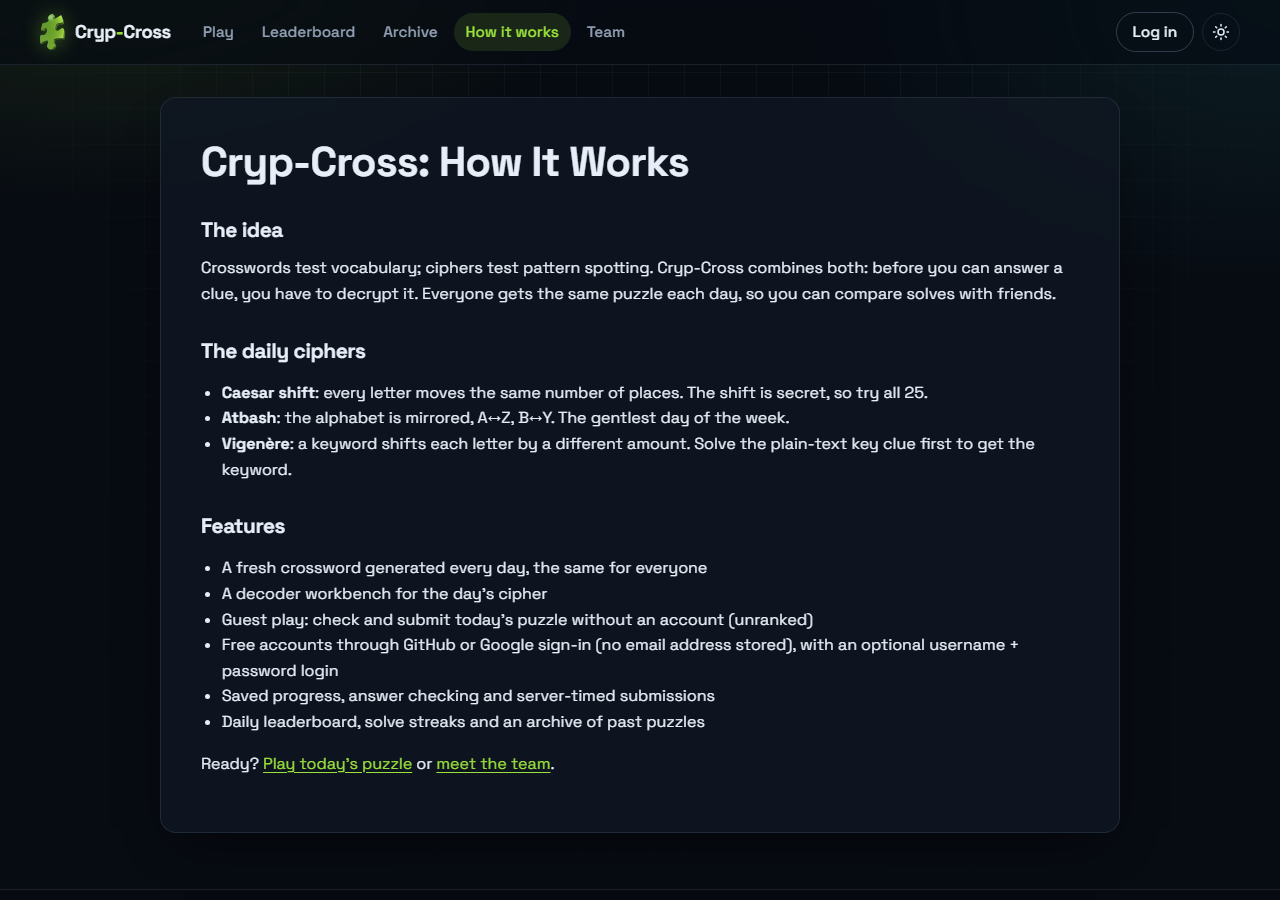
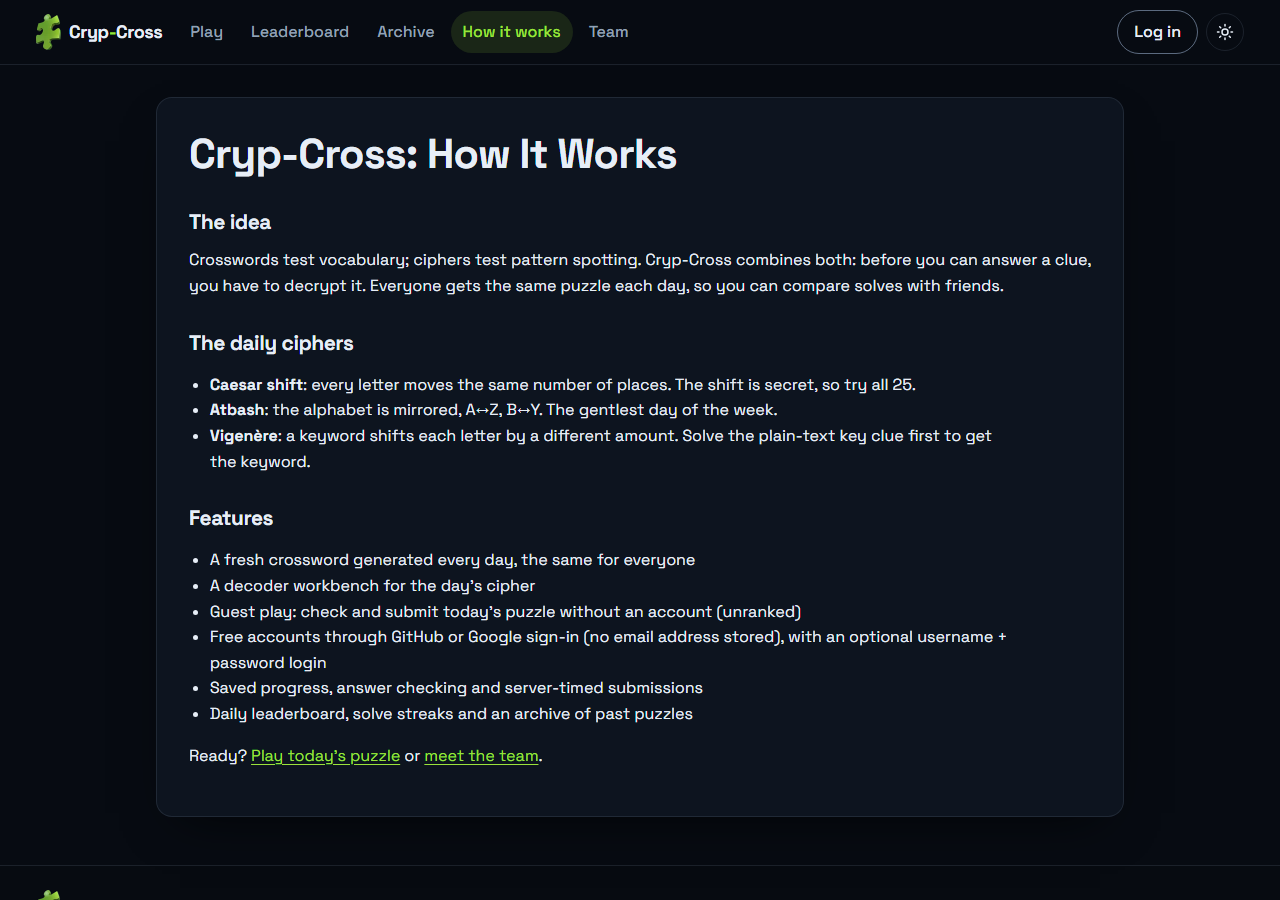
style: use sans for the idle timer and retake screenshots (v2.2.1)
- Set the idle timer text in the sans font; mono stays for the running time
- Retake all README screenshots, light mode and phone views after the redesign
- Update screenshot alt text and the design notes in docs/features.md
- Bump version to 2.2.1

diff --git a/src/App.css b/src/App.css
@@ -1063,6 +1063,7 @@ input[type='range'] {
 }
 
 .timer.idle {
+    font-family: var(--font-sans);
     font-weight: 400;
     color: var(--text-muted);
 }

diff --git a/README.md b/README.md
@@ -8,7 +8,7 @@
   <p><strong>A daily cryptographic crossword: decode the encrypted clues, fill the grid, keep your streak.</strong></p>
 
   <p>
-    <img src="https://img.shields.io/badge/version-2.2.0-green?style=flat" alt="Version 2.2.0" />
+    <img src="https://img.shields.io/badge/version-2.2.1-green?style=flat" alt="Version 2.2.1" />
     <a href="LICENSE"><img src="https://img.shields.io/badge/license-Sprucetrap%20Source--Available-orange?style=flat" alt="License: Sprucetrap Source-Available" /></a>
     <a href="https://github.com/Jevoel16/Cryp-Cross/actions/workflows/ci.yml"><img src="https://img.shields.io/github/actions/workflow/status/Jevoel16/Cryp-Cross/ci.yml?branch=main&amp;label=CI&amp;style=flat" alt="CI status" /></a>
     <img src="https://img.shields.io/badge/platform-web-lightgrey?style=flat" alt="Platform: web" />
@@ -32,8 +32,8 @@ Cryp-Cross is a free daily crossword where every clue is encrypted. Each day the
 
 <table>
   <tr>
-    <td width="50%" align="center"><b>Home</b><br><a href="docs/images/home.png"><img src="docs/images/home.png" width="100%" alt="Home page with the puzzle-piece logo and the Decode, Fill, Race steps"></a></td>
-    <td width="50%" align="center"><b>Play</b><br><a href="docs/images/play.png"><img src="docs/images/play.png" width="100%" alt="Play page with the crossword grid and the Atbash decoder turning the selected clue into English"></a></td>
+    <td width="50%" align="center"><b>Home</b><br><a href="docs/images/home.png"><img src="docs/images/home.png" width="100%" alt="Home page with the headline, a sample board with a decoded clue, and the Decode, Fill, Race steps"></a></td>
+    <td width="50%" align="center"><b>Play</b><br><a href="docs/images/play.png"><img src="docs/images/play.png" width="100%" alt="Play page with the crossword grid and the Caesar decoder beside it"></a></td>
   </tr>
   <tr>
     <td width="50%" align="center"><b>How it works</b><br><a href="docs/images/how-it-works.png"><img src="docs/images/how-it-works.png" width="100%" alt="How it works page explaining the three ciphers"></a></td>
@@ -44,7 +44,7 @@ Cryp-Cross is a free daily crossword where every clue is encrypted. Each day the
     <td width="50%" align="center"><b>Log in</b><br><a href="docs/images/login.png"><img src="docs/images/login.png" width="100%" alt="Log in page with GitHub and Google buttons and username login"></a></td>
   </tr>
   <tr>
-    <td width="50%" align="center"><b>Team</b><br><a href="docs/images/team.png"><img src="docs/images/team.png" width="100%" alt="Team page with the member carousel"></a></td>
+    <td width="50%" align="center"><b>Team</b><br><a href="docs/images/team.png"><img src="docs/images/team.png" width="100%" alt="Team page with the member carousel and pause button"></a></td>
     <td width="50%" align="center"><b>Light mode</b><br><a href="docs/images/light-mode.png"><img src="docs/images/light-mode.png" width="100%" alt="Home page in the light theme"></a></td>
   </tr>
   <tr>

diff --git a/docs/features.md b/docs/features.md
@@ -14,11 +14,13 @@ The full feature list of Cryp-Cross, frontend and backend.
 - Info pages: Home, How it works (`/idea`) and a Team carousel
 - **Accounts through GitHub or Google only**: the first sign-in creates the account (no email address is asked for or stored). Buttons appear only for providers configured on the API.
 - **Account page**: change the username, add or change a password for username + password login, connect or disconnect GitHub/Google, and see your stats
-- **Dark cipher-terminal design**: deep ink background with a faint grid, glassy cards, a lime accent taken from the puzzle-piece logo and cyan cipher text; Space Grotesk for the interface and JetBrains Mono for ciphers and the grid. The logo appears in the header, the home hero and the footer.
-- Home page hero with a one-time "decrypt" animation of the tagline, today's cipher at a glance, and a Decode / Fill / Race walkthrough
-- Play page with a glowing cursor and active entry, right/wrong marks, a Ranked or Guest badge with a timer pill, and the decoder styled as a terminal pane that stays in view beside the grid
+- **Plain, consistent design**: one set of spacing, type, radius and colour tokens; a lime accent (from the puzzle-piece logo) only for actions and state, cyan only for cipher text; Space Grotesk for the interface and JetBrains Mono only for cipher text, the grid and numbers. No decorative glows, gradients or animations.
+- Home page with a sample board and a decoded example clue, today's cipher at a glance, and a Decode / Fill / Race walkthrough
+- Play page with a highlighted cursor and active entry, right/wrong marks, a Ranked or Guest badge with a timer, and a decoder panel that stays in view beside the grid
 - Leaderboard with gold, silver and bronze ranks and your own row highlighted; stat tiles on the Account page
-- Sticky header with a mobile menu, a skip link, visible focus rings and `prefers-reduced-motion` support (animations off)
+- Sticky header with a mobile menu, a skip link, visible focus rings and `prefers-reduced-motion` support (animations and team auto-advance off, with a pause button)
+- Loading skeletons that reserve space (no layout shift), plus empty and error states for every async view
+- One SVG icon set (2px strokes, 18px) for the theme toggle, menu, timer and team arrows
 - Dark theme by default with a light theme toggle; the choice is remembered in `localStorage`, and without one the site follows the system setting. `public/theme.js` applies it before the app renders, so there is no flash.
 - Client-side routing with React Router and a 404 page
 - SEO: a unique title, description and canonical URL per page, `noindex` on the error page, JSON-LD, Open Graph tags, `llms.txt`, and a `sitemap.xml` + `robots.txt` generated at build time
